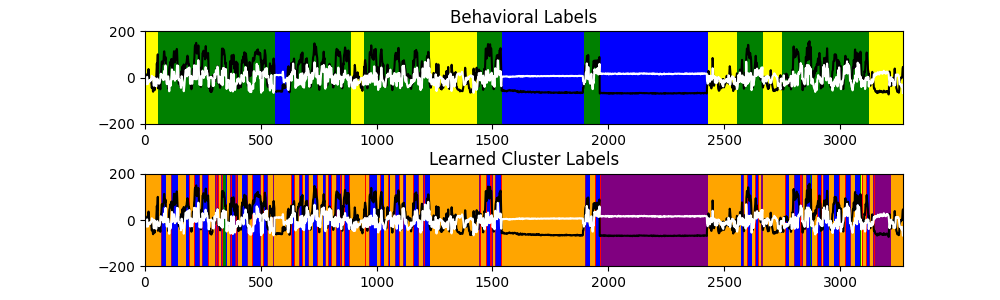
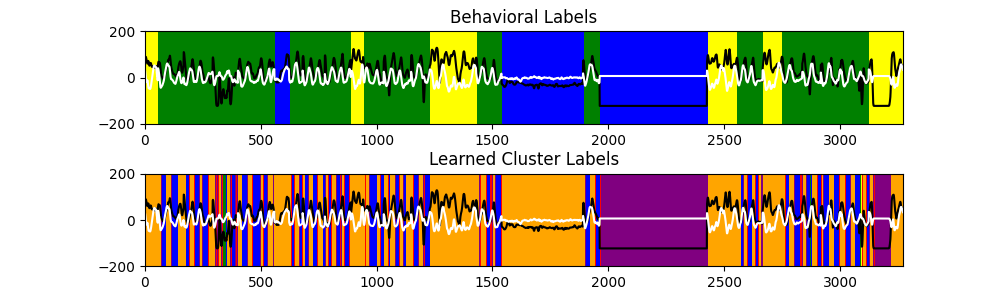
remove zeros experiments, robust model on entire dataset

Changed region(s): [[0.124, 0.63, 0.93, 0.84], [0.124, 0.15, 0.93, 0.36]]

diff --git a/eval/evaluate.py b/eval/evaluate.py
@@ -26,6 +26,7 @@ Expanded trial range: "python3 eval/evaluate.py configs/t100_configs/configs_cag
 Expanded trial range (B=10): "python3 eval/evaluate.py configs/b_configs/configs_cage_t100_b10.yaml"
 Expanded trial range (d=4): "python3 eval/evaluate.py configs/d_configs/configs_cage_t100_d4.yaml"
 Set 1 data: "python3 eval/evaluate.py configs/t100_configs/configs_cage_t100_set1.yaml"
+Kmeans clusters #0 for None data: "python3 eval/evaluate.py configs/kmeans_split_configs/configs_cage_t100_kmeans0_none.yaml"
 """
 
 
@@ -88,6 +89,8 @@ def check_clustering(model_path, num_to_print, dataset, config, plot_type, model
     
     # Access train dataset
     train = dataset.train_dataset
+    train_m1 = torch.stack([val[0] for val in train])
+    train_m1_1 = train_m1[:,0].tolist()
     train_emg = torch.stack([val[1] for val in train])
     train_emg_1 = train_emg[:,0].tolist()
     train_behavioral_labels = [val[2] for val in train]
@@ -143,10 +146,22 @@ def check_clustering(model_path, num_to_print, dataset, config, plot_type, model
     # Graph of EMG with behavioral label and learned cluster labels overlaid with color
     if plot_type == "majority":
 
+        # Determine whether plotting M1 or EMG
+        dataset_to_plot = "m1"
+        # dataset_to_plot = "emg"
+        if dataset_to_plot == "m1":
+            train_dataset = train_m1 * 10
+            train_dataset_1 = train_m1_1 * 10
+        elif dataset_to_plot == "emg":
+            train_dataset = train_emg
+            train_dataset_1 = train_emg_1
+
+
         # Plot EMG info on top of clustering info
         plot_pcs = True
+        plot_emg = False
         pca = PCA(n_components=2)
-        pca_result = pca.fit_transform(train_emg)
+        pca_result = pca.fit_transform(train_dataset)
         pca1 = pca_result[:,0]
         pca2 = pca_result[:,1]
 
@@ -160,7 +175,7 @@ def check_clustering(model_path, num_to_print, dataset, config, plot_type, model
             ax1.plot(timestamps, pca1, color="black")
             ax1.plot(timestamps, pca2, color="white")
         else:
-            ax1.plot(timestamps, train_emg_1, color="black")
+            ax1.plot(timestamps, train_dataset_1, color="black")
         
         cmap = ListedColormap(["yellow","green","blue"], name='from_list', N=None)
         cmap_preds = ListedColormap(cmap_colors[:config.d], name='from_list', N=None)
@@ -175,7 +190,7 @@ def check_clustering(model_path, num_to_print, dataset, config, plot_type, model
             ax2.plot(timestamps, pca1, color="black")
             ax2.plot(timestamps, pca2, color="white")
         else:
-            ax2.plot(timestamps, train_emg_1, color="black")
+            ax2.plot(timestamps, train_dataset_1, color="black")
 
         ax2.imshow(np.expand_dims(cluster_ids_array, 0),
                 cmap=cmap_preds,
@@ -467,7 +482,7 @@ def full_R2_reg(datasets, verbose):
         curr_emg_val = np.array([val[1] for val in val_dataset])
         curr_model = LinearRegression().fit(curr_m1_train, curr_emg_train)
         # Fit with Ridge regression
-        curr_model = Ridge(alpha=200.0).fit(curr_m1_train, curr_emg_train)
+        curr_model = Ridge(alpha=500.0).fit(curr_m1_train, curr_emg_train)
 
         # Generate train and val preds and append to full list
         train_emgs.append(torch.Tensor(curr_emg_train))
@@ -1005,15 +1020,16 @@ if __name__ == "__main__":
                         verbose=False)
 
     # Evaluate model decoding
-    model_id = 120
+    # model_id = 120
+    model_id = 115
     # model_id = 254
     # model_id = 259
     # model_id = 259
     # model_id = 273
     model_path = "checkpoints/checkpoint%s_epoch=499.ckpt" % model_id
     # plot_type = "baseline"
-    plot_type = "behavior_average"
-    # plot_type = "behavior_average_unweighted"
+    # plot_type = "behavior_average"
+    plot_type = "behavior_average_unweighted"
     # Check decoding
     
     sep_decoders_R2(dataset=dataset,
@@ -1026,7 +1042,7 @@ if __name__ == "__main__":
     # Calculate full R^2 over separate models
     # If using kmeans split data, format separate datasets
     datasets = []
-    if "data/set2_data/kmeans_split" in config.m1_path:
+    if "kmeans_split" in config.m1_path:
         # If using k=6 or k=3
         if "k6" in config.m1_path:
             k = 6
@@ -1036,7 +1052,8 @@ if __name__ == "__main__":
         for k in range(k):
             curr_dataset = Cage_Dataset(m1_path=config.m1_path, emg_path=config.emg_path, 
                            behavioral_path=config.behavioral_path, num_modes=config.d, 
-                           batch_size=config.b, dataset_type=config.type, seed=config.seed, kmeans_cluster=k)
+                           batch_size=config.b, dataset_type=config.type, seed=config.seed, 
+                           kmeans_cluster=k, label_type=config.label_type)
             datasets.append(curr_dataset)
     # If using mode data, format separate datasets
     else:

diff --git a/data/data.py b/data/data.py
@@ -156,7 +156,29 @@ class Cage_Dataset(pl.LightningDataModule):
     
         # Load data with full dataset without labels
         elif self.label_type == "none":
-            self.format_none_data()
+
+            # If using kmeans split data for sanity check
+            if "data/none_data/kmeans_split" in m1_path:
+                path = m1_path
+                m1_train = torch.Tensor(np.load("%s/m1_train_%s.npy" % (path, self.kmeans_cluster)))
+                emg_train = torch.Tensor(np.load("%s/emg_train_%s.npy" % (path, self.kmeans_cluster)))
+                labels_train = np.load("%s/labels_train_%s.npy" % (path, self.kmeans_cluster))
+                m1_val = torch.Tensor(np.load("%s/m1_val_%s.npy" % (path, self.kmeans_cluster)))
+                emg_val = torch.Tensor(np.load("%s/emg_val_%s.npy" % (path, self.kmeans_cluster)))
+                labels_val = np.load("%s/labels_val_%s.npy" % (path, self.kmeans_cluster))
+
+                self.train_dataset = [(m1_train[i], emg_train[i], labels_train[i]) for i in range(len(m1_train))]
+                self.val_dataset = [(m1_val[i], emg_val[i], labels_val[i]) for i in range(len(m1_val))]
+                self.N = m1_train.shape[1]
+                self.M = emg_train.shape[1]
+
+            else:
+                self.format_none_data()
+
+        # Remove samples with M1 data of all zeros
+        remove_zeros = True
+        if remove_zeros:
+            self.remove_zeros()
 
     def format_set1_data(self, labels_to_use):
 
@@ -284,11 +306,43 @@ class Cage_Dataset(pl.LightningDataModule):
         y_train_behavioral = np.concatenate([y[1] for y in y_train])
         y_val_emg = torch.Tensor(np.concatenate([y[0] for y in y_val]))
         y_val_behavioral = np.concatenate([y[1] for y in y_val])
+
+        # Perform min-max scaling
+        scale_outputs = True
+        if scale_outputs:
+            scaler = MinMaxScaler()
+            scaler.fit(y_train_emg)
+            y_train_emg = torch.Tensor(scaler.transform(y_train_emg))
+            y_val_emg = torch.Tensor(scaler.transform(y_val_emg))
+
         self.train_dataset = [(X_train[i], y_train_emg[i], y_train_behavioral[i]) for i in range(len(X_train))]
         self.val_dataset = [(X_val[i], y_val_emg[i], y_val_behavioral[i]) for i in range(len(X_val))]
         self.N = m1.shape[1]
         self.M = emg.shape[1]
-
+        
+    def remove_zeros(self):
+        train_nozeros = []
+        val_nozeros = []
+        for dataset in [self.train_dataset, self.val_dataset]:
+            num_zeros = 0
+            zeros_tensor = torch.Tensor([0.0]*95)
+            for i in range(len(dataset)):
+                sample = dataset[i]
+                curr_m1 = sample[0]
+                if torch.equal(curr_m1, zeros_tensor):
+                    num_zeros += 1
+                else:
+                    # Keep only samples without all zeros
+                    if dataset == self.train_dataset:
+                        train_nozeros.append(sample)
+                    elif dataset == self.val_dataset:
+                        val_nozeros.append(sample)
+            # if dataset == self.train_dataset:
+            #     print(f"{num_zeros} zero samples out of {len(dataset)} in train set")
+            # elif dataset == self.val_dataset:
+            #     print(f"{num_zeros} zero samples out of {len(dataset)} in val set")
+        self.train_dataset = train_nozeros
+        self.val_dataset = val_nozeros
 
     def __len__(self):
         """
